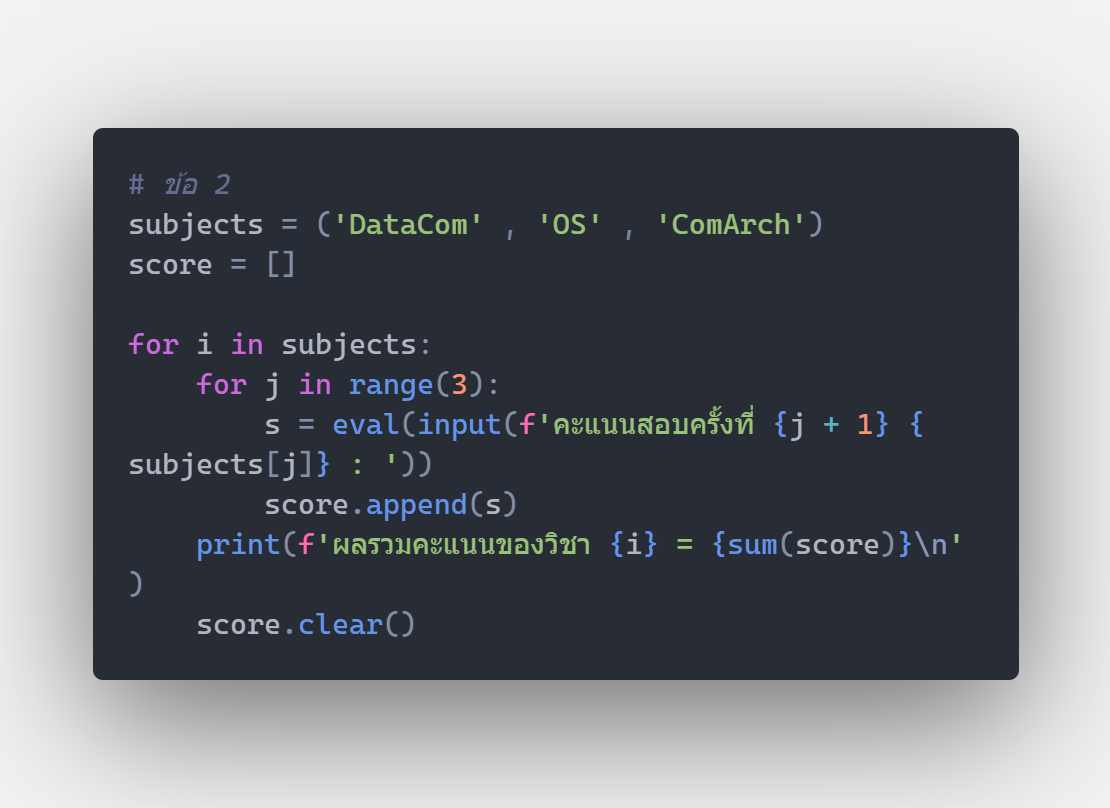
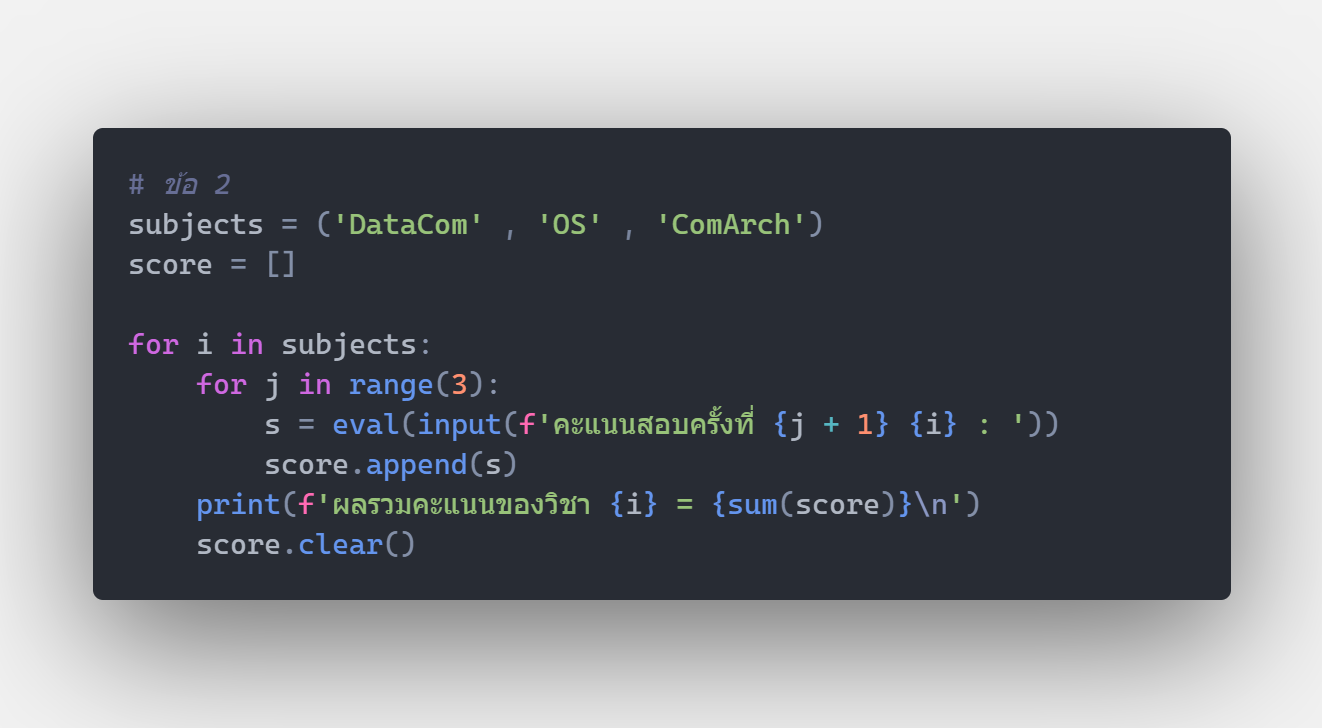
updated

diff --git a/python/lab/week9/score.py b/python/lab/week9/score.py
@@ -4,7 +4,7 @@ score = []
 
 for i in subjects:
     for j in range(3):
-        s = eval(input(f'คะแนนสอบครั้งที่ {j + 1} {subjects[j]} : '))
+        s = eval(input(f'คะแนนสอบครั้งที่ {j + 1} {i} : '))
         score.append(s)
     print(f'ผลรวมคะแนนของวิชา {i} = {sum(score)}\n')
     score.clear()
